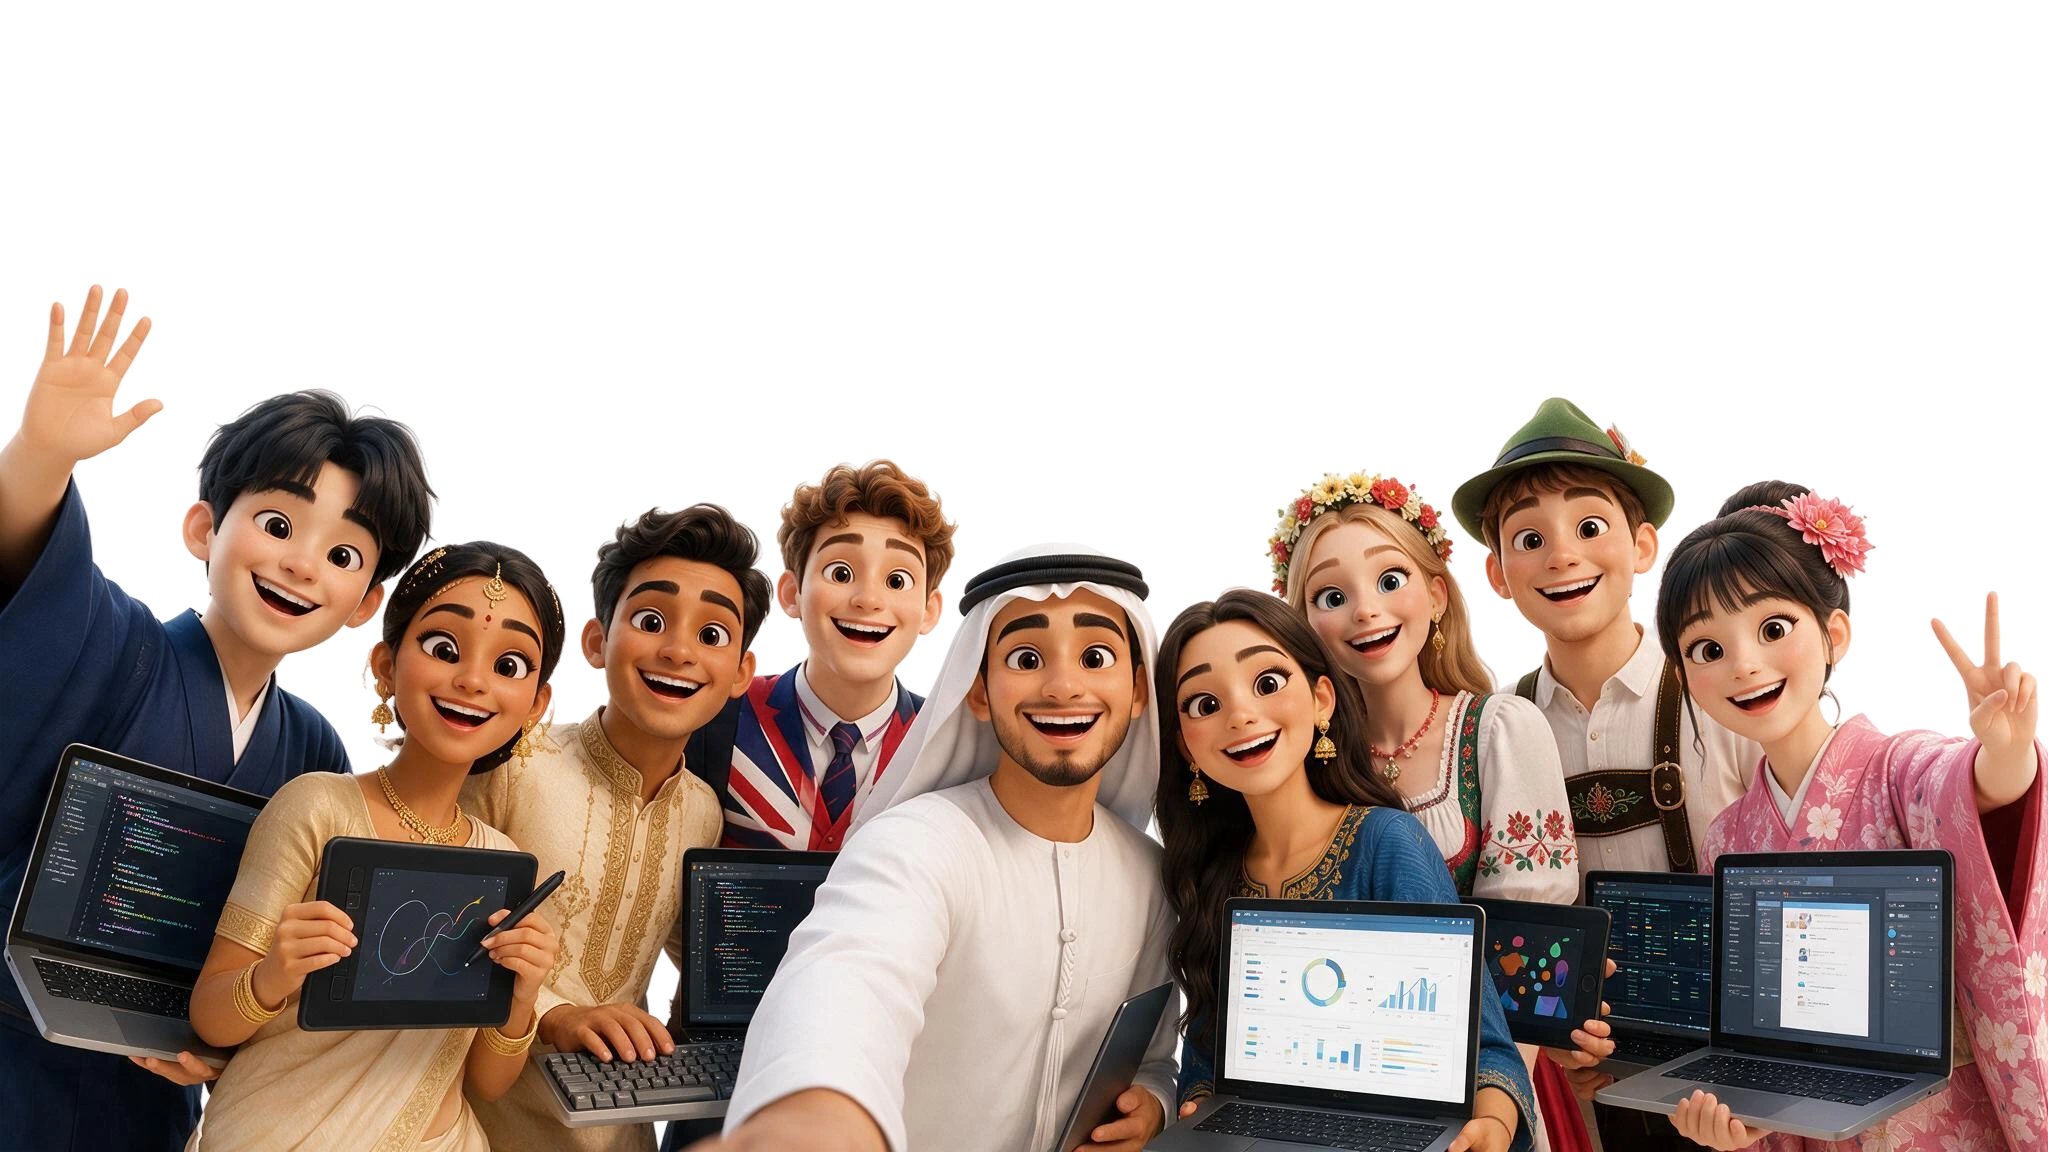
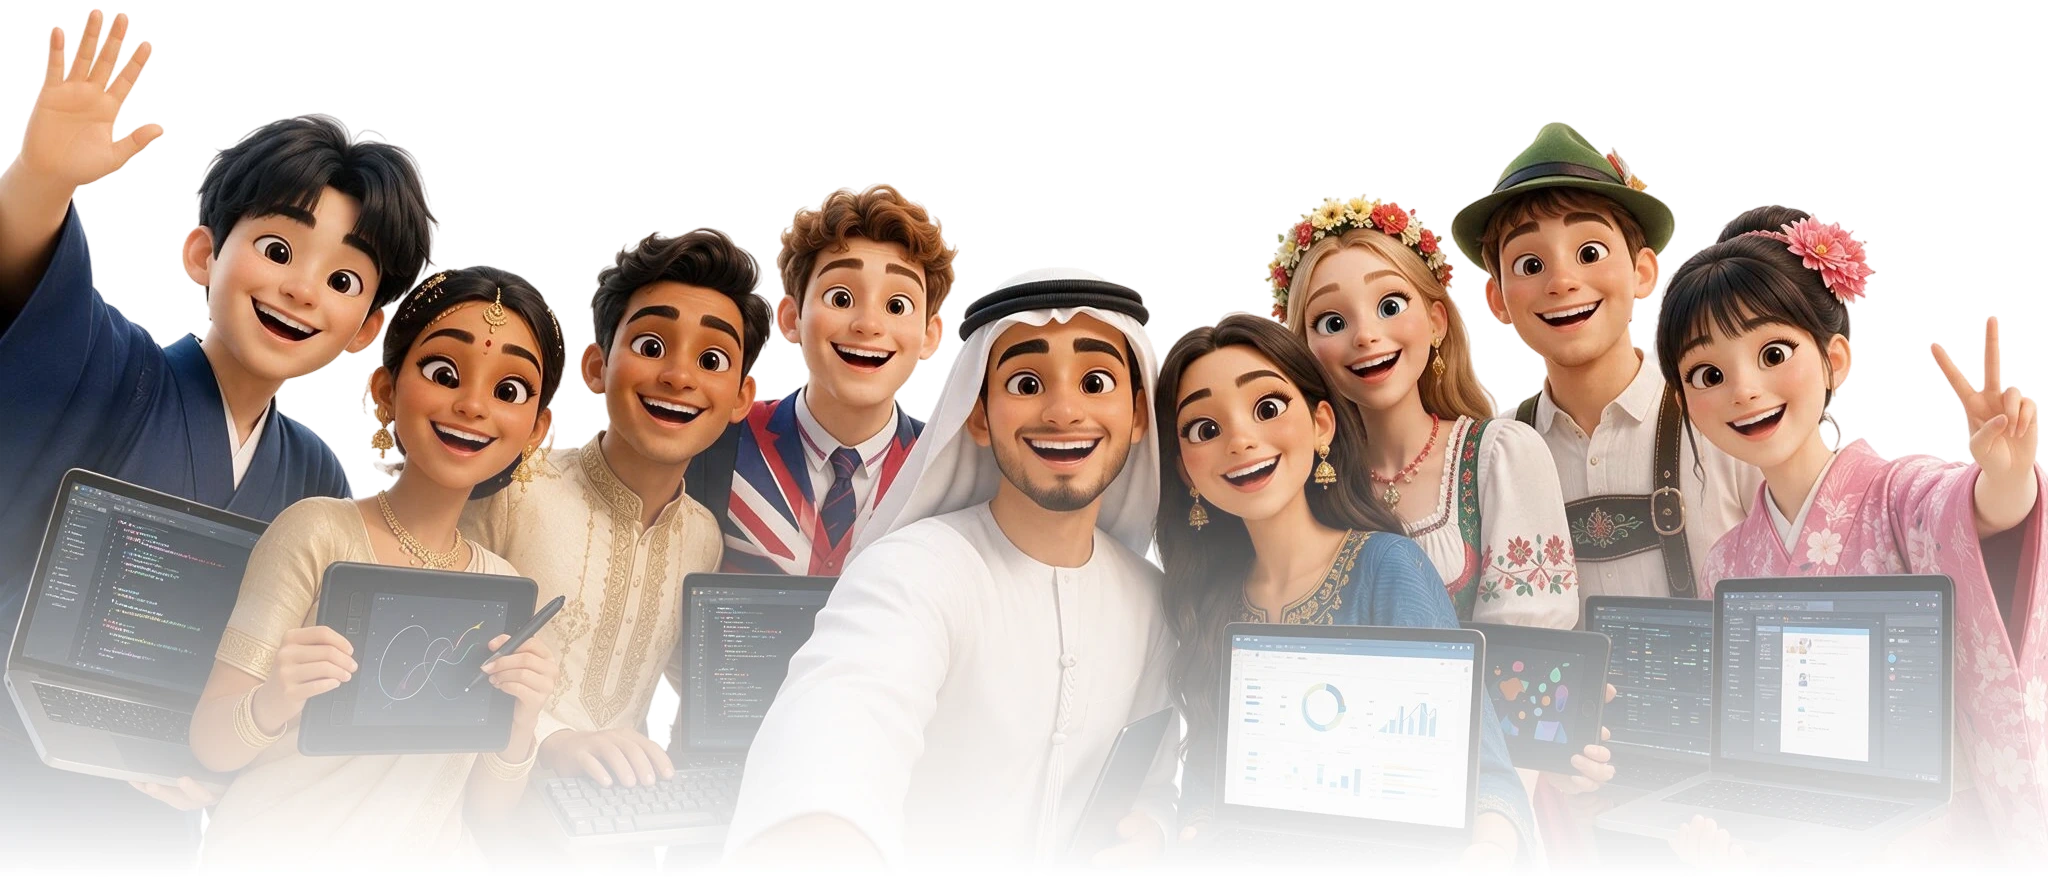
hero and founder section ui update

diff --git a/components/pixel-ceylon/Hero.tsx b/components/pixel-ceylon/Hero.tsx
@@ -1,8 +1,10 @@
 'use client';
 
 import { motion } from 'framer-motion';
+import Image from 'next/image';
 import { Rocket, Globe, Users } from 'lucide-react';
 import ContactForm from './ContactForm';
+import coverImage from '../../public/images/Cover.webp';
 
 const badges = [
   { icon: Rocket, label: '2–3 Week Delivery' },
@@ -14,9 +16,11 @@ export default function Hero() {
   return (
     <section
       id="home"
-      className="relative min-h-screen flex items-center pt-28 pb15 overflow-hidden"
+      className="relative min-h-screen overflow-hidden"
       style={{ background: '#FFFFFF' }}
     >
+      {/* ===== LAYER 1: BACKGROUND & DECORATIVE ELEMENTS ===== */}
+
       {/* Premium subtle dot grid texture */}
       <div
         className="absolute inset-0 pointer-events-none opacity-[0.10]"
@@ -36,89 +40,147 @@ export default function Hero() {
       />
 
       {/* Blurred organic shapes */}
-      <div className="absolute top-20 right-[15%] w-[400px] h-[400px] rounded-full pointer-events-none" style={{ background: 'radial-gradient(circle, rgba(181,228,9,0.06) 0%, transparent 70%)', filter: 'blur(80px)' }} />
-      <div className="absolute bottom-20 left-[10%] w-[300px] h-[300px] rounded-full pointer-events-none" style={{ background: 'radial-gradient(circle, rgba(100,120,255,0.04) 0%, transparent 70%)', filter: 'blur(60px)' }} />
+      <div
+        className="absolute top-20 right-[15%] w-[400px] h-[400px] rounded-full pointer-events-none"
+        style={{
+          background: 'radial-gradient(circle, rgba(181,228,9,0.06) 0%, transparent 70%)',
+          filter: 'blur(80px)',
+        }}
+      />
+      <div
+        className="absolute bottom-20 left-[10%] w-[300px] h-[300px] rounded-full pointer-events-none"
+        style={{
+          background: 'radial-gradient(circle, rgba(100,120,255,0.04) 0%, transparent 70%)',
+          filter: 'blur(60px)',
+        }}
+      />
 
       {/* Pixel deco */}
       <div className="absolute top-16 right-16 opacity-[0.50] pointer-events-none hidden lg:block">
         <svg width="180" height="180" viewBox="0 0 200 200">
-          {[[0,0],[16,16],[32,0],[48,32],[0,48],[64,16],[80,48],[16,64],[96,0]].map(([x,y],i) => (
-            <rect key={i} x={x} y={y} width="8" height="8" fill="#b5e409" />
-          ))}
+          {[[0, 0], [16, 16], [32, 0], [48, 32], [0, 48], [64, 16], [80, 48], [16, 64], [96, 0]].map(
+            ([x, y], i) => (
+              <rect key={i} x={x} y={y} width="8" height="8" fill="#b5e409" />
+            )
+          )}
         </svg>
       </div>
 
-      <div className="max-w-[1200px] mx-auto px-6 md:px-8 w-full">
-        <div className="grid grid-cols-1 lg:grid-cols-[1fr_420px] gap-12 lg:gap-20 items-center">
-          {/* Left */}
-          <div>
-            <motion.div
-              initial={{ opacity: 0, y: 28 }}
-              animate={{ opacity: 1, y: 0 }}
-              transition={{ duration: 0.65, delay: 0.05 }}
-              className="flex items-center gap-3 mb-3"
+      {/* ===== LAYER 2: CONTENT CONTAINER ===== */}
+      <div className="relative z-20 max-w-[1400px] mx-auto px-6 md:px-8 w-full min-h-screen flex flex-col lg:flex-row lg:items-start justify-start pt-24 lg:pt-28">
+        {/* Left Content */}
+        <div className="w-full lg:w-auto lg:max-w-[600px] mt-8 lg:mt-0">
+          <motion.div
+            initial={{ opacity: 0, y: 28 }}
+            animate={{ opacity: 1, y: 0 }}
+            transition={{ duration: 0.65, delay: 0.05 }}
+            className="flex items-center gap-3 mb-3"
+          >
+            <span className="w-2 h-2 rounded-full bg-[#1D6252] pulse-dot block" />
+            <span
+              style={{ fontFamily: 'var(--font-space-mono, monospace)' }}
+              className="text-[11px] text-[#6B7280] tracking-[0.12em] uppercase"
             >
-              <span className="w-2 h-2 rounded-full bg-[#1D6252] pulse-dot block" />
-              <span style={{ fontFamily: 'var(--font-space-mono, monospace)' }} className="text-[11px] text-[#6B7280] tracking-[0.12em] uppercase">
-                Sri Lanka&apos;s Digital Agency
-              </span>
-            </motion.div>
+              Sri Lanka&apos;s Digital Agency
+            </span>
+          </motion.div>
 
-            <motion.h1
-              initial={{ opacity: 0, y: 28 }}
-              animate={{ opacity: 1, y: 0 }}
-              transition={{ duration: 0.65, delay: 0.15 }}
-              style={{
-                fontFamily: 'var(--font-bebas, sans-serif)',
-                fontSize: 'clamp(58px, 8vw, 100px)',
-                lineHeight: 0.93,
-                letterSpacing: '0.01em',
-                color: '#0A0A0A',
-              }}
-              className="mb-6"
-            >
-              BUILDING
-              <br />
-              <span style={{ color: '#1D6252' }}>
-                DIGITAL
-              </span>
-              <br />
-              EXCELLENCE
-            </motion.h1>
+          <motion.h1
+            initial={{ opacity: 0, y: 28 }}
+            animate={{ opacity: 1, y: 0 }}
+            transition={{ duration: 0.65, delay: 0.15 }}
+            style={{
+              fontFamily: 'var(--font-bebas, sans-serif)',
+              fontSize: 'clamp(60px, 6.5vw, 80px)',
+              lineHeight: 0.92,
+              letterSpacing: '0.01em',
+              color: '#0A0A0A',
+            }}
+            className="mb-6"
+          >
+            BUILDING
+            <br />
+            <span style={{ color: '#1D6252' }}>DIGITAL</span>
+            <br />
+            EXCELLENCE
+          </motion.h1>
 
-            <motion.p
-              initial={{ opacity: 0, y: 28 }}
-              animate={{ opacity: 1, y: 0 }}
-              transition={{ duration: 0.65, delay: 0.25 }}
-              className="text-[17px] text-[#4B5563] leading-relaxed max-w-[460px] mb-8"
-            >
-              We craft high-performance websites and data-driven digital marketing strategies that turn clicks into customers pixel by pixel.
-            </motion.p>
+          <motion.p
+            initial={{ opacity: 0, y: 28 }}
+            animate={{ opacity: 1, y: 0 }}
+            transition={{ duration: 0.65, delay: 0.25 }}
+            className="text-[14px] text-[#4B5563] leading-relaxed max-w-[460px] mb-8"
+          >
+            We craft high-performance websites and data-driven digital marketing strategies that turn clicks into customers pixel by pixel.
+          </motion.p>
 
-            <motion.div
-              initial={{ opacity: 0, y: 28 }}
-              animate={{ opacity: 1, y: 0 }}
-              transition={{ duration: 0.65, delay: 0.35 }}
-              className="flex flex-wrap gap-2.5"
-            >
-              {badges.map((b) => (
-                <div
-                  key={b.label}
-                  className="flex items-center gap-2 bg-[#F5F5F5] border border-[#E5E5E5] rounded-lg px-3.5 py-2 text-[13px] text-[#1F2937]"
-                >
-                  <b.icon className="w-4 h-4 text-[#0A0A0A]" strokeWidth={2} />
-                  {b.label}
-                </div>
-              ))}
-            </motion.div>
-          </div>
+          <motion.div
+            initial={{ opacity: 0, y: 28 }}
+            animate={{ opacity: 1, y: 0 }}
+            transition={{ duration: 0.65, delay: 0.35 }}
+            className="flex flex-wrap gap-2.5"
+          >
+            {badges.map((b) => (
+              <div
+                key={b.label}
+                className="flex items-center gap-2 bg-[#F5F5F5] border border-[#E5E5E5] rounded-lg px-3.5 py-2 text-[13px] text-[#1F2937]"
+              >
+                <b.icon className="w-4 h-4 text-[#0A0A0A]" strokeWidth={2} />
+                {b.label}
+              </div>
+            ))}
+          </motion.div>
+        </div>
 
-          {/* Right — Contact Form */}
-          <div id="contact">
-            <ContactForm />
-          </div>
+        {/* Right — Contact Form */}
+        <div id="contact" className="w-full lg:w-auto lg:ml-auto mt-12 lg:mt-0">
+          <ContactForm />
         </div>
       </div>
+
+      {/* ===== LAYER 3: LARGE COVER.WEBP IMAGE (ABSOLUTE POSITIONED) ===== */}
+      <motion.div
+        initial={{ opacity: 0, y: 40 }}
+        animate={{ opacity: 1, y: 0 }}
+        transition={{ duration: 0.8, delay: 0.3 }}
+        className="absolute bottom-0 left-0 z-10 pointer-events-none hidden lg:block w-full"
+        style={{
+          left: '0',
+          bottom: '-40px',
+          height: 'auto',
+        }}
+      >
+        <div className="relative w-full h-auto">
+          <Image
+            src={coverImage}
+            alt="Pixel Ceylon team"
+            width={1000}
+            height={700}
+            priority
+            className="w-[950px] max-w-none h-auto object-contain object-bottom"
+            style={{
+              marginLeft: 'max(0px, calc(50% - 900px))',
+            }}
+          />
+        </div>
+      </motion.div>
+
+      {/* Mobile Cover Image */}
+      <motion.div
+        initial={{ opacity: 0, y: 40 }}
+        animate={{ opacity: 1, y: 0 }}
+        transition={{ duration: 0.8, delay: 0.3 }}
+        className="relative lg:hidden z-10 pointer-events-none w-full mt-8 flex justify-center px-4"
+      >
+        <Image
+          src={coverImage}
+          alt="Pixel Ceylon team"
+          width={600}
+          height={400}
+          priority
+          className="w-full max-w-[600px] h-auto object-contain"
+        />
+      </motion.div>
     </section>
   );
 }

diff --git a/components/pixel-ceylon/Founder.tsx b/components/pixel-ceylon/Founder.tsx
@@ -4,7 +4,7 @@ import { motion } from 'framer-motion';
 import { ArrowRight, Check } from 'lucide-react';
 import Image from 'next/image';
 
-const achievements = ['UI/UX Engineer', '5+ Years Experience', '100+ Completed Projects', 'Trusted by Global Clients'];
+const achievements = ['Software Engineer', '8+ Years Experience', '100+ Completed Projects', 'Trusted by Global Clients'];
 
 export default function Founder() {
   return (
@@ -39,8 +39,8 @@ export default function Founder() {
               Meet The Founder
             </span>
             <h3 className="font-bebas text-4xl sm:text-5xl md:text-6xl text-[#0F1117] leading-[0.9] tracking-[0.01em]">
-              NIRMITHA<br />
-              <span className="text-[#1D6252]">BALASURIYA</span>
+              NIPUNA<br />
+              <span className="text-[#1D6252]">FERNANDO</span>
             </h3>
 
             <p className="mt-6 max-w-[560px] text-[17px] leading-8 text-[#31403A]">
@@ -76,7 +76,7 @@ export default function Founder() {
             <div className="relative overflow-hidden rounded-[1.75rem] border border-[#1D6252]/8 p-1 shadow-[0_20px_48px_rgba(15,17,23,0.12)] lg:max-w-[520px] mx-auto">
               <Image
                 src="/images/founder.webp"
-                alt="Nirmitha Balasuriya"
+                alt="Nipuna Fernando"
                 width={760}
                 height={920}
                 priority

diff --git a/components/pixel-ceylon/CTA.tsx b/components/pixel-ceylon/CTA.tsx
@@ -8,8 +8,8 @@ export default function CTA() {
   const inView = useInView(ref, { once: true, margin: '-80px' });
 
   return (
-    <section style={{ background: '#0F1117', borderTop: '1px solid #1E2130', borderBottom: '1px solid #1E2130' }}>
-      <div className="max-w-[1200px] mx-auto px-6 md:px-8 py-20">
+    <section style={{ background: '#07080d', borderTop: '1px solid #1E2130'}}>
+      <div className="max-w-[1200px] mx-auto px-6 md:px-8 py-10">
         <motion.div
           ref={ref}
           initial={{ opacity: 0, y: 24 }}
